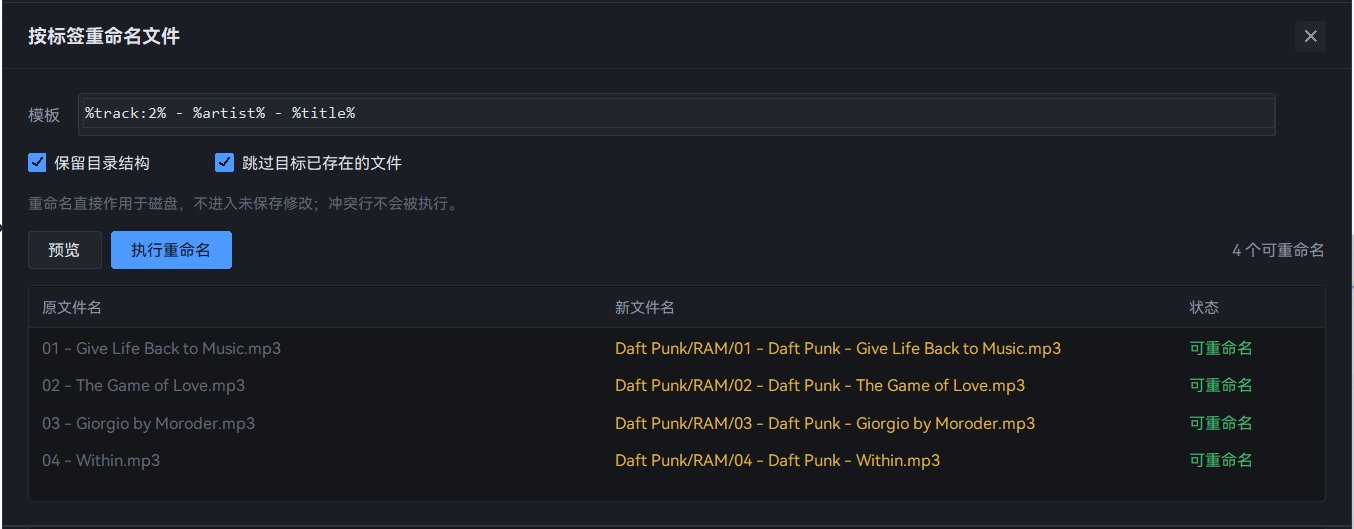
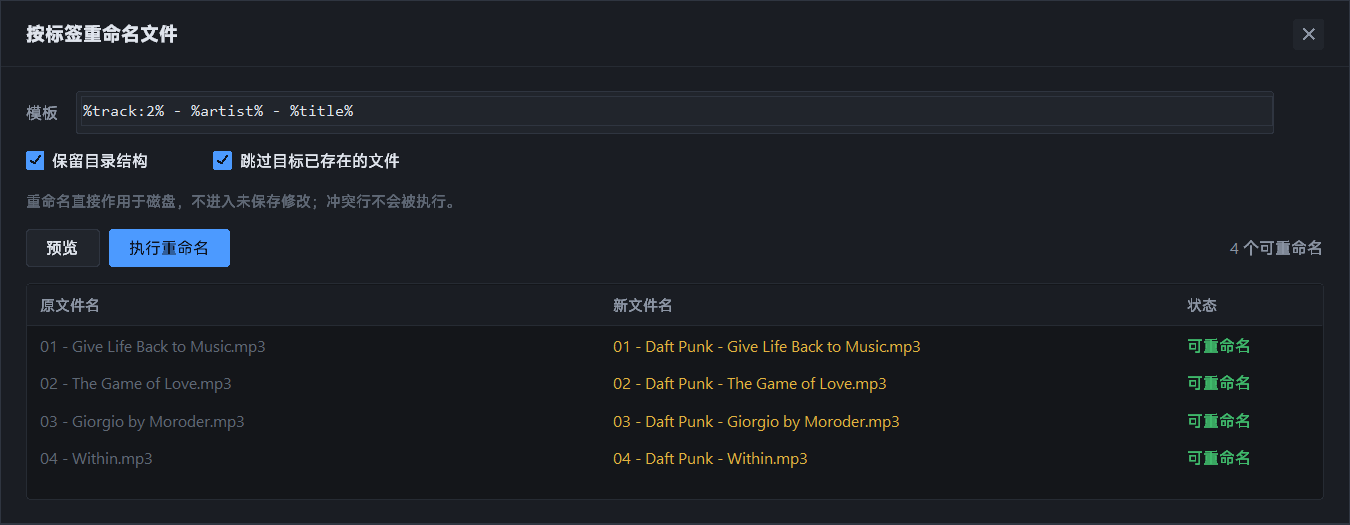
改用系统默认字体，移除内置字体（0.2.1）
- 删除 assets/HarmonyOS_Sans_SC.ttf（20MB），仓库不再随包字体
- resolve_ui_font() 直接取 TkDefaultFont 字族（Windows 上为 Segoe UI），
  中文由系统字体链接回退，换机器自动跟随系统
- 移除 AddFontResourceExW / RemoveFontResourceExW 相关代码
- 重命名预览在「保留目录结构」时只显示文件名，与列名一致
- 版本号 0.2.0 → 0.2.1，同步 README 与架构文档，重新生成界面截图

diff --git a/tagforge/gui.py b/tagforge/gui.py
@@ -48,7 +48,7 @@ DANGER = "#E2564C"
 INK = "#0F1622"
 CHK_EDGE = "#3A414D"
 
-FONT_UI = "Microsoft YaHei UI"     # 未注册成功时的回退字族
+FONT_UI = "Segoe UI"             # 启动时替换为系统默认 UI 字族
 FONT_MONO = "Consolas"
 SCALE = 1.0                      # 设计单位 -> 设备像素的倍率（由 DPI 决定）
 
@@ -57,13 +57,6 @@ def S(value: float) -> int:
     """设计单位转设备像素。所有绘制坐标都过这个函数。"""
     return int(round(value * SCALE))
 
-
-_PKG_DIR = os.path.dirname(os.path.abspath(__file__))
-FONT_CANDIDATES = [
-    os.path.join(_PKG_DIR, "assets", "HarmonyOS_Sans_SC.ttf"),
-    os.path.join(os.path.dirname(_PKG_DIR), "assets", "HarmonyOS_Sans_SC.ttf"),
-]
-FONT_FILE = next((p for p in FONT_CANDIDATES if os.path.exists(p)), FONT_CANDIDATES[0])
 
 # ---------------------------------------------------------------- 布局常量
 W, H = 1440, 900
@@ -93,25 +86,17 @@ def F(size: int, bold: bool = False, mono: bool = False):
     return (FONT_MONO if mono else FONT_UI, -max(1, S(abs(size))), "bold" if bold else "normal")
 
 
-def load_ui_font() -> str:
-    """把随包的 HarmonyOS Sans SC 注册为进程私有字体，并切换到该字族。
+def resolve_ui_font(root: tk.Tk) -> str:
+    """采用系统默认 UI 字体（Tk 的 TkDefaultFont 字族）。
 
-    Tk 没有加载字体文件的 API，所以走 Windows 的 AddFontResourceExW
-    （FR_PRIVATE = 0x10）：字体会话内可见、不污染系统字体列表，进程退出自动释放。
+    不再随包字体：Windows 上是 Segoe UI，中文由系统字体链接自动回退到
+    微软雅黑一类字形；换机器 / 换主题时界面自动跟随系统。
     """
     global FONT_UI
     try:
-        gdi = ctypes.windll.gdi32
-        gdi.AddFontResourceExW.argtypes = [ctypes.c_wchar_p, ctypes.c_uint, ctypes.c_void_p]
-        gdi.AddFontResourceExW.restype = ctypes.c_int
-        if os.path.exists(FONT_FILE) and gdi.AddFontResourceExW(FONT_FILE, 0x10, None):
-            families = set(tkfont.families())
-            for candidate in ("HarmonyOS Sans SC", "HarmonyOS Sans"):
-                if candidate in families:
-                    FONT_UI = candidate
-                    break
-            else:
-                FONT_UI = "HarmonyOS Sans SC"
+        family = tkfont.nametofont("TkDefaultFont").cget("family")
+        if family:
+            FONT_UI = family
     except Exception:
         pass
     return FONT_UI
@@ -382,7 +367,7 @@ class PhEntry(tk.Entry):
 # ---------------------------------------------------------------- 主窗口
 class TagForgeApp:
     def __init__(self, root: tk.Tk, start_dir: str | None = None):
-        load_ui_font()
+        resolve_ui_font(root)
         self.root = root
         self.root.title("TagForge")
         self.root.configure(bg=BG)
@@ -1440,10 +1425,13 @@ class RenameDialog(Dialog):
                     (old, "bad"), (row.get("rel") or "—", "bad"), (row["error"], "bad")]})
             elif row.get("unchanged"):
                 self.rows.append({"bad": False, "cells": [
-                    (old, "faint"), (row.get("rel") or old, "faint"), ("未变化", "faint")]})
+                    (old, "faint"), (old, "faint"), ("未变化", "faint")]})
             else:
+                new_name = row.get("rel") or old
+                if self.keep_dir:      # 保留目录结构时只显示文件名，目录不变
+                    new_name = new_name.rsplit("/", 1)[-1]
                 self.rows.append({"bad": False, "cells": [
-                    (old, "faint"), (row.get("rel") or old, "amber"), ("可重命名", "ok")]})
+                    (old, "faint"), (new_name, "amber"), ("可重命名", "ok")]})
         total_conflict = sum(1 for r in self.plan if r.get("error"))
         movable = sum(1 for r in self.plan if r.get("target") and not r.get("error") and not r.get("unchanged"))
         parts = []
@@ -1566,12 +1554,9 @@ def main(argv: list[str] | None = None) -> int:
     SCALE = max(1.0, SCALE)
 
     root.geometry(f"{S(W)}x{S(H)}+40+40")
-    app = TagForgeApp(root, start)
+    TagForgeApp(root, start)
     root.mainloop()
-    try:
-        ctypes.windll.gdi32.RemoveFontResourceExW(FONT_FILE, 0x10, None)
-    except Exception:
-        pass
+    return 0
     return 0
 
 

diff --git a/tagforge/__init__.py b/tagforge/__init__.py
@@ -8,4 +8,4 @@
     gui          桌面端界面（Tkinter），只依赖以上四层
 """
 
-__version__ = "0.2.0"
+__version__ = "0.2.1"

diff --git a/README.md b/README.md
@@ -80,8 +80,8 @@ python -m venv .venv
   字号同样按倍率换算，因此 125% / 150% / 200% 下版式完全等比，不会出现"字大框小"。
 - 启动时用 `GetDpiForSystem()` 读取系统 DPI 换算缩放倍率；
   若窗口会超出屏幕则自动逐档回退；也可用 `--scale` 或环境变量 `TAGFORGE_SCALE` 覆盖。
-- 字体：随包的 **HarmonyOS Sans SC**（`assets/HarmonyOS_Sans_SC.ttf`），
-  通过 `AddFontResourceExW(FR_PRIVATE)` 注册为进程私有字体，不污染系统字体列表；
+- 字体：使用**系统默认 UI 字体**（Tk 的 `TkDefaultFont` 字族，Windows 上即 Segoe UI，
+  中文由系统字体链接自动回退到微软雅黑一类字形），不随包字体，换机器自动跟随系统；
   文件列与技术信息使用等宽 Consolas。
 
 ## 代码结构
@@ -94,7 +94,6 @@ tagforge/
 │  ├─ adapters.py    四种写入引擎 + 封面读写 + 技术信息探测
 │  ├─ naming.py      文件名 ⇄ 标签 双向模板引擎
 │  └─ library.py     扫描 / 批量写入 / 快照回滚 / 撤销 / 重命名
-├─ assets/           HarmonyOS Sans SC 字体
 ├─ tests/            演示库生成 + 后端流程测试 + GUI 端到端测试
 └─ samples/          测试音频（DemoLibrary 为 23 曲演示库）
 ```

diff --git a/docs/architecture.md b/docs/architecture.md
@@ -88,7 +88,7 @@
 | F14 | 保存暂存（Ctrl+S，徽标显脏字段数） | 「保存修改」 | `save` | `apply_changes(mode=overwrite)` |
 | F15 | 撤销上一步（整批回退） | 「撤销」 | `undo_last` / `ConfirmUndo` | `list_backups` / `undo` |
 | F16 | 计数与空态 | 顶栏、批量条 | `dirty_count` / 各 `draw_*` | — |
-| F17 | 字体与 DPI 适配 | 启动 | `load_ui_font` / `detect_scale` | `AddFontResourceExW`、`GetDpiForSystem` |
+| F17 | 字体与 DPI 适配 | 启动 | `resolve_ui_font` / `detect_scale` | `TkDefaultFont`、`GetDpiForSystem` |
 | F18 | 安全底账（写前快照、失败回滚） | 隐式（F15 可见） | — | `snapshot` / `_restore_one` |
 
 ## 4. 调用关系（4 条主链）
